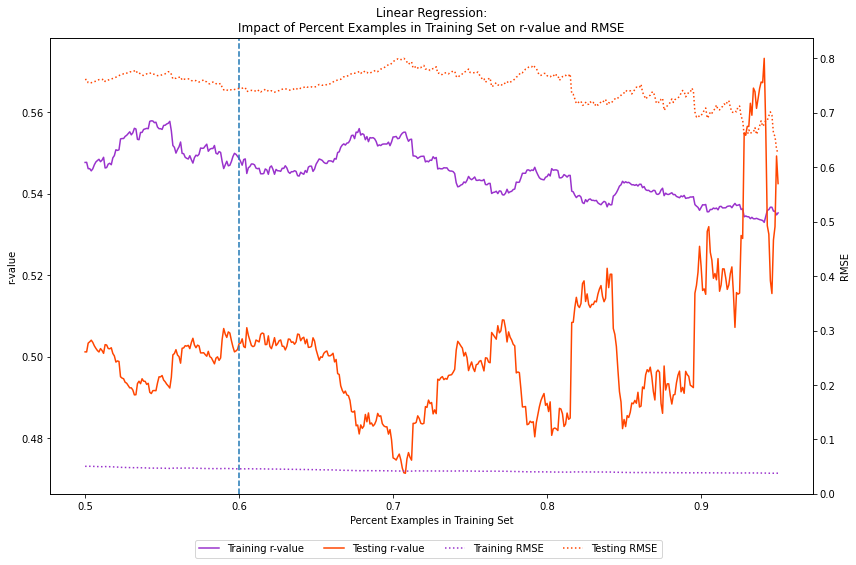
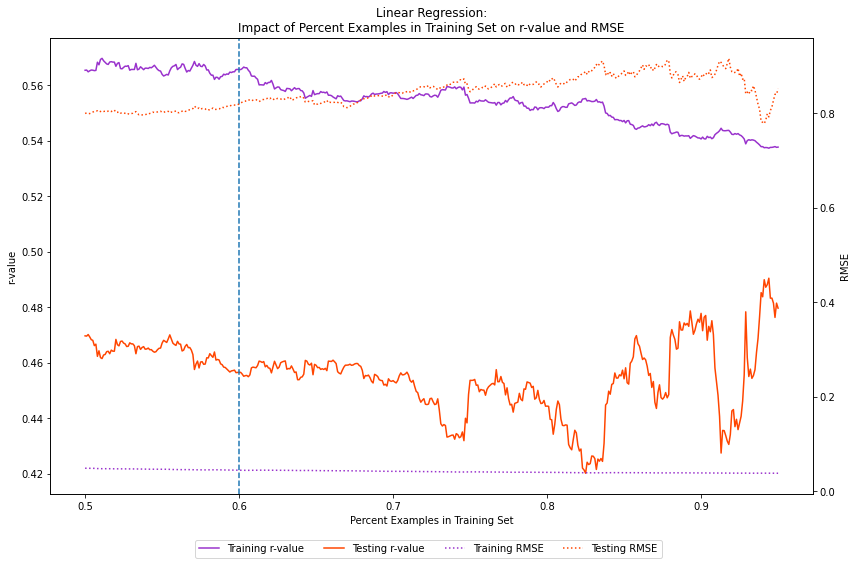
More plots and stuff

diff --git a/models.py b/models.py
@@ -3,7 +3,7 @@
 # @Email:  shounak@stanford.edu
 # @Filename: models.py
 # @Last modified by:   shounak
-# @Last modified time: 2022-11-26T19:54:29-08:00
+# @Last modified time: 2022-11-26T22:09:27-08:00
 
 import pandas as pd
 from sklearn.linear_model import LinearRegression
@@ -298,6 +298,17 @@ r_test, r_sq_test, std_err_test, rmse_test, _ = test_model(model, BETTER_TEST_DF
 
 """ Now we're going to double check our results using CROSS VALIDATION """
 training_results, testing_results = really_check_single(BETTER_DATA, iters=1000, prop=0.6, plot=False)
+avg_r_train, avg_r_sq_train, avg_std_err_train, avg_rmse_train = (training_results[:, 0].mean(),
+                                                                  training_results[:, 1].mean(),
+                                                                  training_results[:, 2].mean(),
+                                                                  training_results[:, 3].mean())
+avg_r_test, avg_r_sq_test, avg_std_err_test, avg_rmse_test = (testing_results[:, 0].mean(),
+                                                              testing_results[:, 1].mean(),
+                                                              testing_results[:, 2].mean(),
+                                                              testing_results[:, 3].mean())
+
+"""Original Results"""
+training_results, testing_results = really_check_single(ALL_DATA, iters=10, prop=0.7, plot=False)
 avg_r_train, avg_r_sq_train, avg_std_err_train, avg_rmse_train = (training_results[:, 0].mean(),
                                                                   training_results[:, 1].mean(),
                                                                   training_results[:, 2].mean(),
